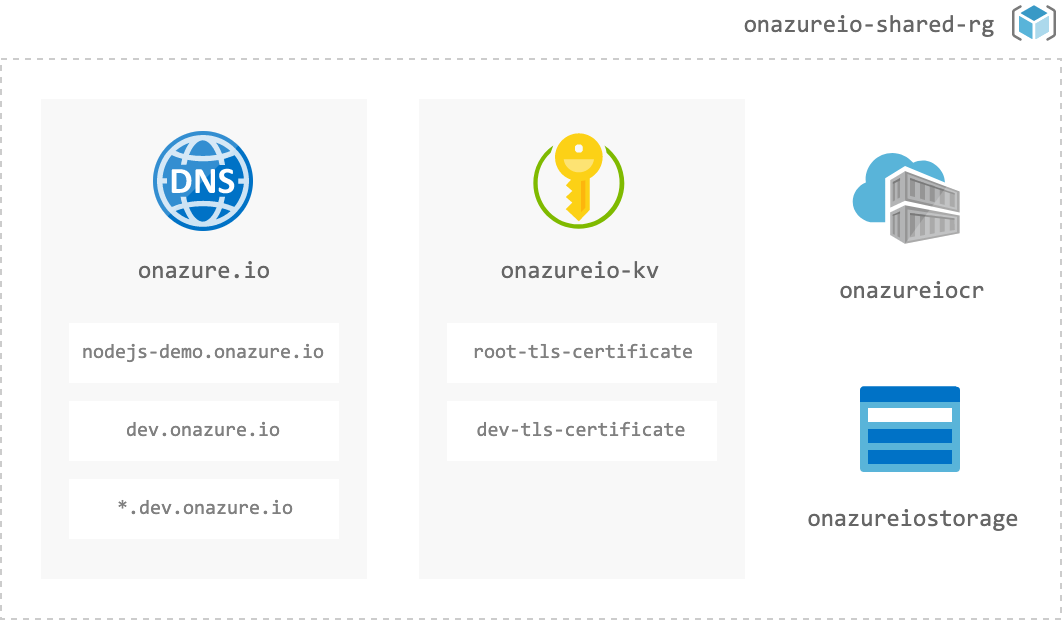
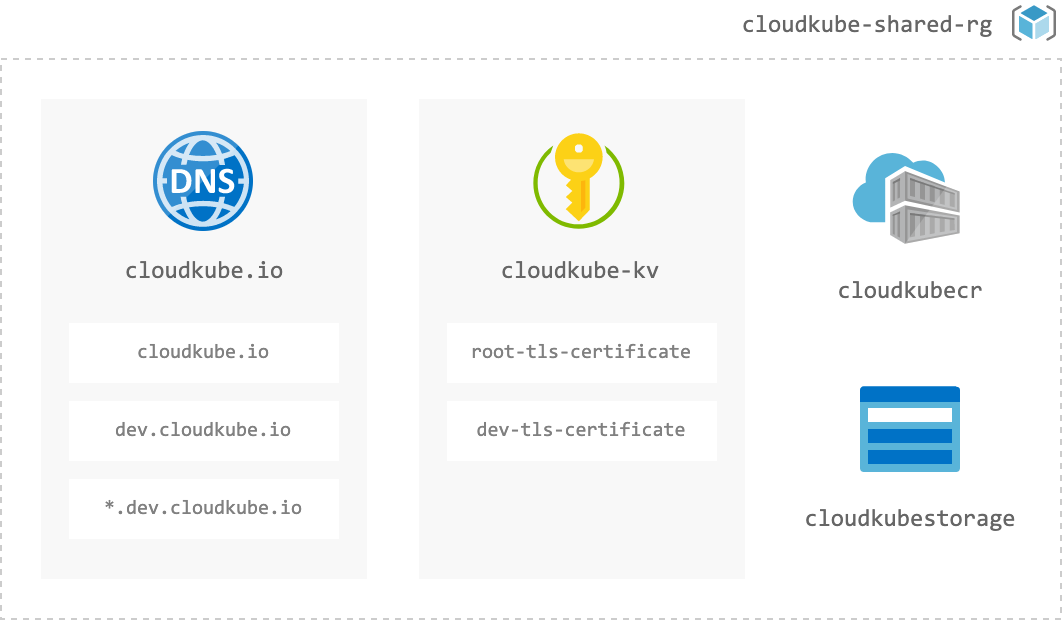
domain - use cloudkube.io instead

diff --git a/README.md b/README.md
@@ -1,6 +1,6 @@
-# Shared Infrastructure - onazure.io
+# Shared Infrastructure - cloudkube.io
 
-[Terraform](https://registry.terraform.io/providers/hashicorp/azurerm/latest/docs) scripts which deploy and manage shared resources, including:
+[Terraform](https://registry.terraform.io/providers/hashicorp/azurerm/latest/docs) Infrastructure as Code (IaC) I use to deploy and manage shared resources for cloudkube.io including:
 
 - Resource Group
 - Key Vault with RBAC enabled [(preview feature)](https://docs.microsoft.com/en-us/azure/key-vault/general/rbac-guide)
@@ -9,58 +9,16 @@
 
 <img src="./images/shared-rg.png" width="600" alt="Diagram: shared resources (not accurate)">
 
-_Disclaimer: this is an neither a reference architecture nor a reference implementation._
+_Disclaimer: this is neither a reference architecture nor a reference implementation._
 
 
 ### Configuration
 
 | File | Description | InnerSource? |
 |:--|:--|:--|
-| `dns-records.auto.tfvars` | A and CNAME records for root domain. | Example |
+| `dns.auto.tfvars` | A and CNAME records for root domain. | Example |
 | `ingress-tls.auto.tfvars` | For my convenience. Not a common use case. | No |
 | `terraform.tfvars` | Configuration to deploy shared infrastructure | No |
-
-
-## InnerSource Infrastructure Example 
-
-In real life, you would probably want to separate these repos into distinct domains, e.g. routing vs firewall whitelisting. This repo exists primarily to make my workflow easier.
-
-### Developer Self-Service
-
-In the example below, developers could make pull requests and add a key value pair to "order" a route to be exposed to the public.
-
-```terraform
-dns_cname_records = {
-  nodejs_demo = {
-    name   = "nodejs-demo"
-    record = "azure-nodejs-demo.azurewebsites.net"
-  }
-  node_js_demo_dev = {
-    name   = "nodejs-demo-dev"
-    record = "azure-nodejs-demo-dev.azurewebsites.net"
-  }
-}
-```
-
-Note to streamline the workflow process, it is important to have very clear instructions to developers on how to make changes that adhere to standards/conventions, which are set by the maintainers of the infrastructure.
-
-#### _Example Instructions_
-
-I recommend also including a shortened version in the source code where developers make changes.
-
-> - Fork this repo to your org/user
-> - Add another nested map to `dns_a_records` or `dns_cname_records`
-> - Create a pull request to the `queued` branch of this repo
-> - Important: 
-> 	- Key names MUST be unique
-> 	- Do not edit any other files or your PR will be rejected.
-> - See Readme for further details
-
-Practical information about InnerSource in practice.
-
-- [GitLab: What is InnerSource?](https://about.gitlab.com/topics/version-control/what-is-innersource/)
-- [Zalando: How to InnerSource](https://opensource.zalando.com/docs/resources/innersource-howto/)
-- [InnerSource Commons](https://innersourcecommons.org/)
 
 ### Terraform Syntax References
 
@@ -88,6 +46,44 @@ output "certificate_role_assginments" {
 - [Functions - `zipmap`](https://www.terraform.io/docs/language/functions/zipmap.html)
 - [Resources - `for_each` meta argument](https://www.terraform.io/docs/language/meta-arguments/for_each.html)
 
+
+## InnerSource Infrastructure Example 
+
+In real life, you would probably want to separate these repos into distinct domains, e.g. routing vs firewall whitelisting. This repo exists primarily to make my workflow easier.
+
+### Developer Self-Service
+
+You can view [`dns.auto.tfvars`](./dns.auto.tfvars) as an example of how to leverage git and Pull Requests to manage changes to shared infrastructure.
+
+Note to streamline the workflow process, it is important to have very clear instructions to developers on how to make changes that adhere to standards/conventions, which are set by the maintainers of the infrastructure.
+
+#### _Example Instructions_
+
+I recommend also including a shortened version in the source code where developers make changes.
+
+> - Fork this repo to your org/user
+> - Add another nested map to `dns_a_records` or `dns_cname_records`
+> - Create a pull request to the `queued` branch of this repo
+> - Important: 
+> 	- Key names MUST be unique
+> 	- Do not edit any other files or your PR will be rejected.
+> - See Readme for further details
+
+### Further Reading
+
+Practical information about InnerSource in practice.
+
+- [GitLab: What is InnerSource?](https://about.gitlab.com/topics/version-control/what-is-innersource/)
+- [Zalando: How to InnerSource](https://opensource.zalando.com/docs/resources/innersource-howto/)
+- [InnerSource Commons](https://innersourcecommons.org/)
+
+## Disclaimer
+
+This repository open source and my opinionated workflow for my use-case. Before you clone it and try it ot yourself, please remember it is 
+
+- not an official Microsoft recommendation
+- not a reference architecture
+- not a reference implementation
 
 ## License
 
